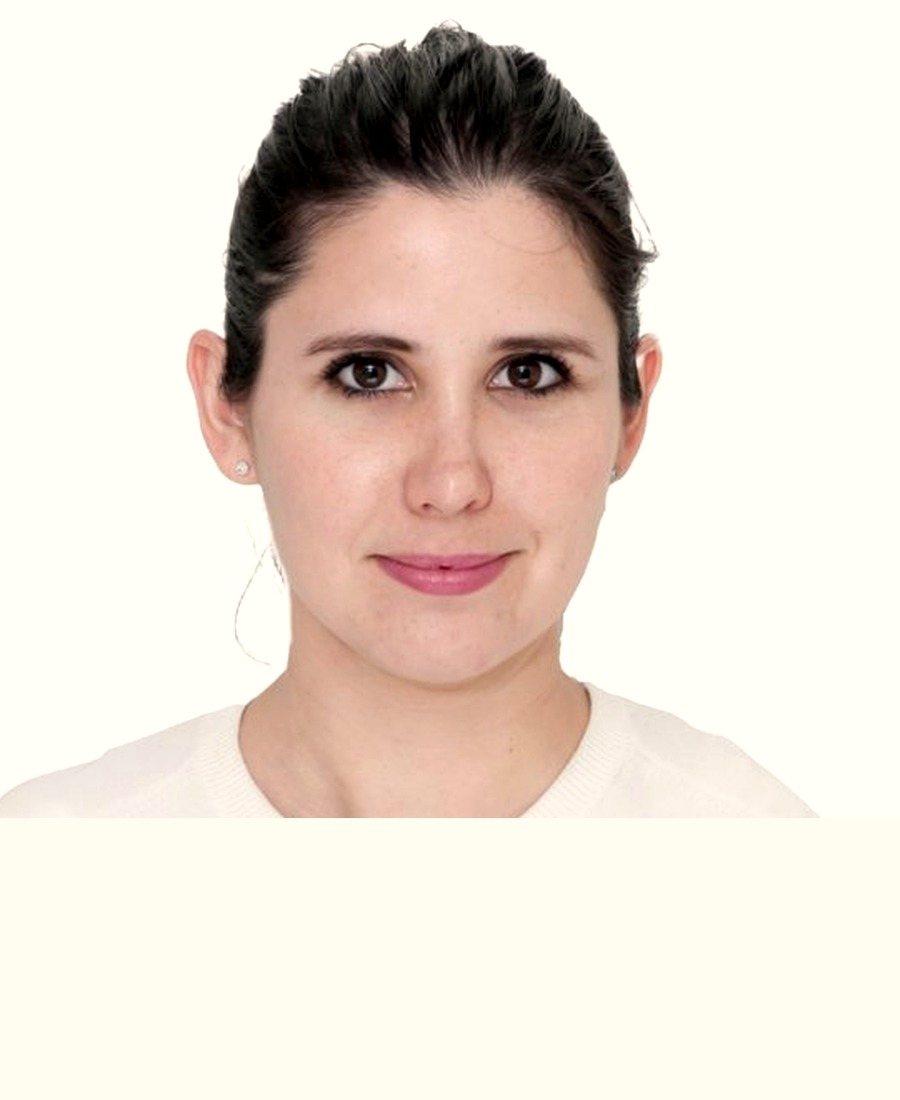
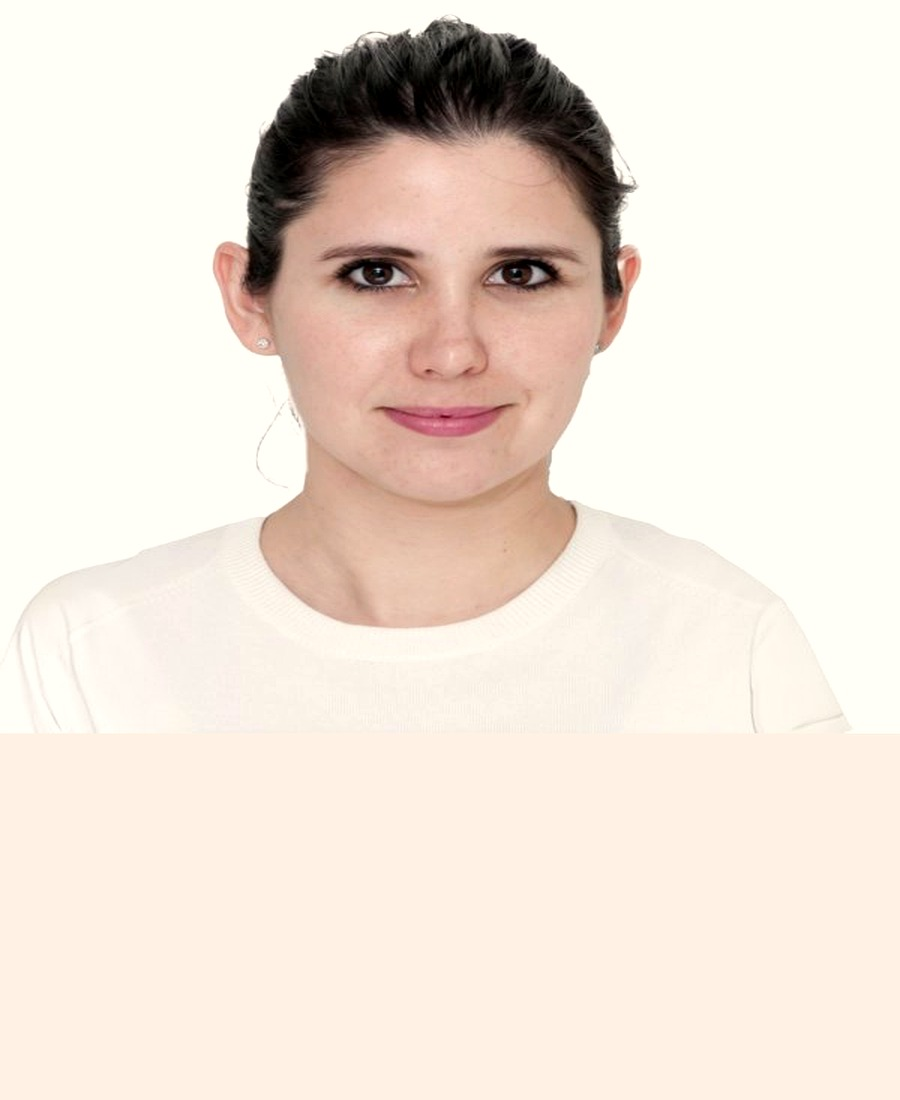
Corrige fondos y gradientes del hero

Changed region(s): [[0.1867, 0.0, 0.7467, 0.7418], [0.1867, 0.4636, 0.2489, 0.5255], [0.0311, 0.5255, 0.0622, 0.5564]]

diff --git a/styles.css b/styles.css
@@ -498,29 +498,9 @@ p:last-child { margin-bottom: 0; }
   z-index: 1;
 }
 
-.hero__panel--marcia::before {
-  content: '';
-  position: absolute;
-  inset: 0;
-  background: linear-gradient(
-    to right,
-    transparent 70%,
-    rgba(44,44,42,0.15) 100%
-  );
-  z-index: 2;
-}
 
-.hero__panel--paula::before {
-  content: '';
-  position: absolute;
-  inset: 0;
-  background: linear-gradient(
-    to left,
-    transparent 70%,
-    rgba(44,44,42,0.15) 100%
-  );
-  z-index: 2;
-}
+
+
 
 .hero__bg {
   position: absolute;
